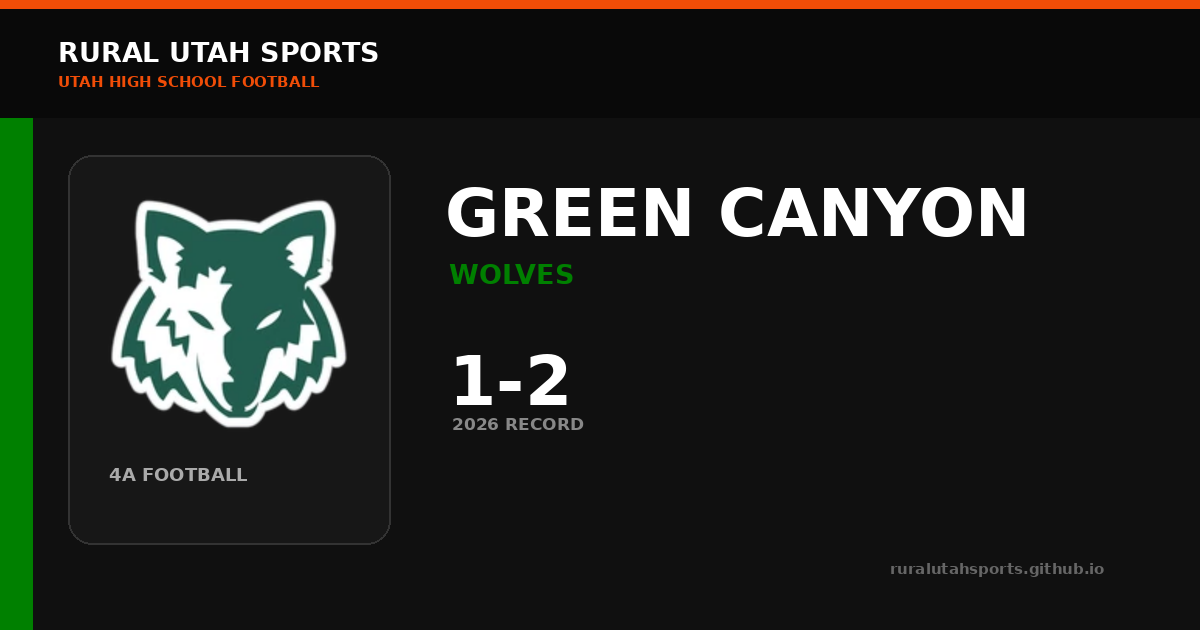
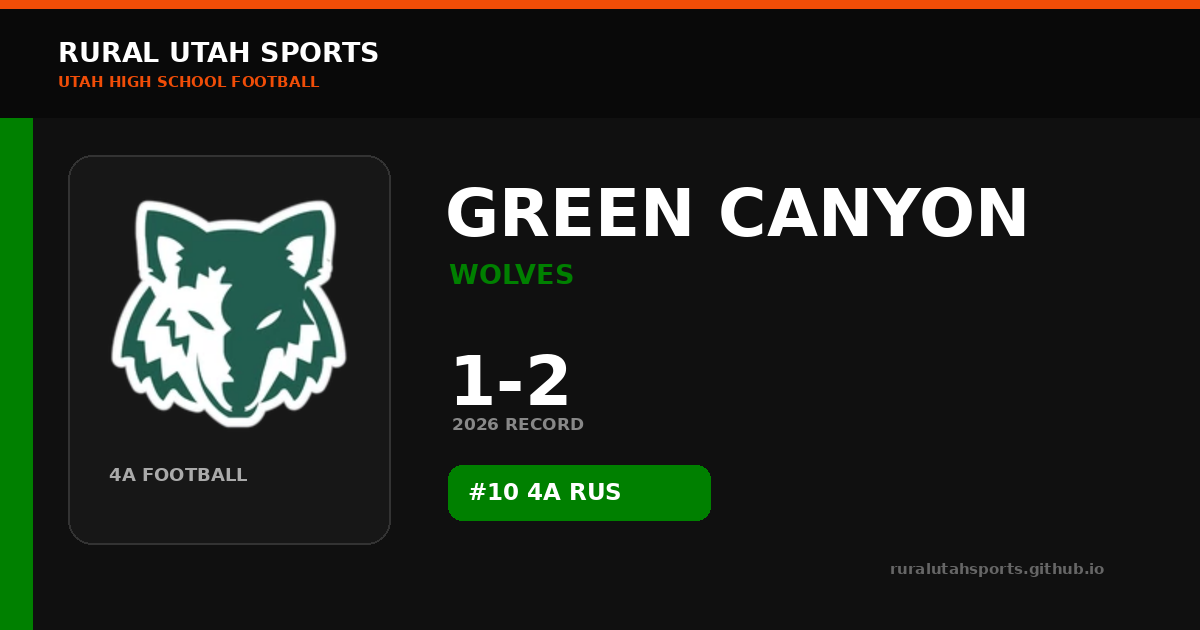
Auto-build social share previews

Changed region(s): [[0.37, 0.7238, 0.6167, 0.8444]]

diff --git a/share/team/snow-canyon/index.html b/share/team/snow-canyon/index.html
@@ -1,5 +1,5 @@
 <!doctype html><html lang="en"><head><meta charset="utf-8"><meta name="viewport" content="width=device-width,initial-scale=1">
-<title>Snow Canyon Warriors Football | Rural Utah Sports</title><meta name="description" content="2026 4A football • 1-2 • #10 4A RUS. Team history, games, rankings, ELO and stats."><meta name="robots" content="noindex,follow"><link rel="canonical" href="https://ruralutahsports.github.io/rural-utah-sports/team.html?team=SNOW%20CANYON">
-<meta property="og:type" content="website"><meta property="og:site_name" content="Rural Utah Sports"><meta property="og:title" content="Snow Canyon Warriors Football | Rural Utah Sports"><meta property="og:description" content="2026 4A football • 1-2 • #10 4A RUS. Team history, games, rankings, ELO and stats."><meta property="og:url" content="https://ruralutahsports.github.io/rural-utah-sports/share/team/snow-canyon/"><meta property="og:image" content="https://ruralutahsports.github.io/rural-utah-sports/share-images/teams/snow-canyon.png"><meta property="og:image:width" content="1200"><meta property="og:image:height" content="630">
-<meta name="twitter:card" content="summary_large_image"><meta name="twitter:title" content="Snow Canyon Warriors Football | Rural Utah Sports"><meta name="twitter:description" content="2026 4A football • 1-2 • #10 4A RUS. Team history, games, rankings, ELO and stats."><meta name="twitter:image" content="https://ruralutahsports.github.io/rural-utah-sports/share-images/teams/snow-canyon.png"><meta http-equiv="refresh" content="0;url=https://ruralutahsports.github.io/rural-utah-sports/team.html?team=SNOW%20CANYON">
+<title>Snow Canyon Warriors Football | Rural Utah Sports</title><meta name="description" content="2026 4A football • 1-2 • #9 4A RUS. Team history, games, rankings, ELO and stats."><meta name="robots" content="noindex,follow"><link rel="canonical" href="https://ruralutahsports.github.io/rural-utah-sports/team.html?team=SNOW%20CANYON">
+<meta property="og:type" content="website"><meta property="og:site_name" content="Rural Utah Sports"><meta property="og:title" content="Snow Canyon Warriors Football | Rural Utah Sports"><meta property="og:description" content="2026 4A football • 1-2 • #9 4A RUS. Team history, games, rankings, ELO and stats."><meta property="og:url" content="https://ruralutahsports.github.io/rural-utah-sports/share/team/snow-canyon/"><meta property="og:image" content="https://ruralutahsports.github.io/rural-utah-sports/share-images/teams/snow-canyon.png"><meta property="og:image:width" content="1200"><meta property="og:image:height" content="630">
+<meta name="twitter:card" content="summary_large_image"><meta name="twitter:title" content="Snow Canyon Warriors Football | Rural Utah Sports"><meta name="twitter:description" content="2026 4A football • 1-2 • #9 4A RUS. Team history, games, rankings, ELO and stats."><meta name="twitter:image" content="https://ruralutahsports.github.io/rural-utah-sports/share-images/teams/snow-canyon.png"><meta http-equiv="refresh" content="0;url=https://ruralutahsports.github.io/rural-utah-sports/team.html?team=SNOW%20CANYON">
 <style>body{margin:0;background:#111;color:#fff;font:16px Arial,sans-serif;display:grid;place-items:center;min-height:100vh}a{color:#F14D07;font-weight:800}</style></head><body><p>Opening <a href="https://ruralutahsports.github.io/rural-utah-sports/team.html?team=SNOW%20CANYON">Snow Canyon Warriors Football | Rural Utah Sports</a>…</p><script>location.replace("https://ruralutahsports.github.io/rural-utah-sports/team.html?team=SNOW%20CANYON");</script></body></html>

diff --git a/share/team/green-canyon/index.html b/share/team/green-canyon/index.html
@@ -1,5 +1,5 @@
 <!doctype html><html lang="en"><head><meta charset="utf-8"><meta name="viewport" content="width=device-width,initial-scale=1">
-<title>Green Canyon Wolves Football | Rural Utah Sports</title><meta name="description" content="2026 4A football • 1-2. Team history, games, rankings, ELO and stats."><meta name="robots" content="noindex,follow"><link rel="canonical" href="https://ruralutahsports.github.io/rural-utah-sports/team.html?team=GREEN%20CANYON">
-<meta property="og:type" content="website"><meta property="og:site_name" content="Rural Utah Sports"><meta property="og:title" content="Green Canyon Wolves Football | Rural Utah Sports"><meta property="og:description" content="2026 4A football • 1-2. Team history, games, rankings, ELO and stats."><meta property="og:url" content="https://ruralutahsports.github.io/rural-utah-sports/share/team/green-canyon/"><meta property="og:image" content="https://ruralutahsports.github.io/rural-utah-sports/share-images/teams/green-canyon.png"><meta property="og:image:width" content="1200"><meta property="og:image:height" content="630">
-<meta name="twitter:card" content="summary_large_image"><meta name="twitter:title" content="Green Canyon Wolves Football | Rural Utah Sports"><meta name="twitter:description" content="2026 4A football • 1-2. Team history, games, rankings, ELO and stats."><meta name="twitter:image" content="https://ruralutahsports.github.io/rural-utah-sports/share-images/teams/green-canyon.png"><meta http-equiv="refresh" content="0;url=https://ruralutahsports.github.io/rural-utah-sports/team.html?team=GREEN%20CANYON">
+<title>Green Canyon Wolves Football | Rural Utah Sports</title><meta name="description" content="2026 4A football • 1-2 • #10 4A RUS. Team history, games, rankings, ELO and stats."><meta name="robots" content="noindex,follow"><link rel="canonical" href="https://ruralutahsports.github.io/rural-utah-sports/team.html?team=GREEN%20CANYON">
+<meta property="og:type" content="website"><meta property="og:site_name" content="Rural Utah Sports"><meta property="og:title" content="Green Canyon Wolves Football | Rural Utah Sports"><meta property="og:description" content="2026 4A football • 1-2 • #10 4A RUS. Team history, games, rankings, ELO and stats."><meta property="og:url" content="https://ruralutahsports.github.io/rural-utah-sports/share/team/green-canyon/"><meta property="og:image" content="https://ruralutahsports.github.io/rural-utah-sports/share-images/teams/green-canyon.png"><meta property="og:image:width" content="1200"><meta property="og:image:height" content="630">
+<meta name="twitter:card" content="summary_large_image"><meta name="twitter:title" content="Green Canyon Wolves Football | Rural Utah Sports"><meta name="twitter:description" content="2026 4A football • 1-2 • #10 4A RUS. Team history, games, rankings, ELO and stats."><meta name="twitter:image" content="https://ruralutahsports.github.io/rural-utah-sports/share-images/teams/green-canyon.png"><meta http-equiv="refresh" content="0;url=https://ruralutahsports.github.io/rural-utah-sports/team.html?team=GREEN%20CANYON">
 <style>body{margin:0;background:#111;color:#fff;font:16px Arial,sans-serif;display:grid;place-items:center;min-height:100vh}a{color:#F14D07;font-weight:800}</style></head><body><p>Opening <a href="https://ruralutahsports.github.io/rural-utah-sports/team.html?team=GREEN%20CANYON">Green Canyon Wolves Football | Rural Utah Sports</a>…</p><script>location.replace("https://ruralutahsports.github.io/rural-utah-sports/team.html?team=GREEN%20CANYON");</script></body></html>

diff --git a/share/team/spanish-fork/index.html b/share/team/spanish-fork/index.html
@@ -1,5 +1,5 @@
 <!doctype html><html lang="en"><head><meta charset="utf-8"><meta name="viewport" content="width=device-width,initial-scale=1">
-<title>Spanish Fork Dons Football | Rural Utah Sports</title><meta name="description" content="2026 5A football • 2-1 • #9 4A RUS. Team history, games, rankings, ELO and stats."><meta name="robots" content="noindex,follow"><link rel="canonical" href="https://ruralutahsports.github.io/rural-utah-sports/team.html?team=SPANISH%20FORK">
-<meta property="og:type" content="website"><meta property="og:site_name" content="Rural Utah Sports"><meta property="og:title" content="Spanish Fork Dons Football | Rural Utah Sports"><meta property="og:description" content="2026 5A football • 2-1 • #9 4A RUS. Team history, games, rankings, ELO and stats."><meta property="og:url" content="https://ruralutahsports.github.io/rural-utah-sports/share/team/spanish-fork/"><meta property="og:image" content="https://ruralutahsports.github.io/rural-utah-sports/share-images/teams/spanish-fork.png"><meta property="og:image:width" content="1200"><meta property="og:image:height" content="630">
-<meta name="twitter:card" content="summary_large_image"><meta name="twitter:title" content="Spanish Fork Dons Football | Rural Utah Sports"><meta name="twitter:description" content="2026 5A football • 2-1 • #9 4A RUS. Team history, games, rankings, ELO and stats."><meta name="twitter:image" content="https://ruralutahsports.github.io/rural-utah-sports/share-images/teams/spanish-fork.png"><meta http-equiv="refresh" content="0;url=https://ruralutahsports.github.io/rural-utah-sports/team.html?team=SPANISH%20FORK">
+<title>Spanish Fork Dons Football | Rural Utah Sports</title><meta name="description" content="2026 5A football • 2-1. Team history, games, rankings, ELO and stats."><meta name="robots" content="noindex,follow"><link rel="canonical" href="https://ruralutahsports.github.io/rural-utah-sports/team.html?team=SPANISH%20FORK">
+<meta property="og:type" content="website"><meta property="og:site_name" content="Rural Utah Sports"><meta property="og:title" content="Spanish Fork Dons Football | Rural Utah Sports"><meta property="og:description" content="2026 5A football • 2-1. Team history, games, rankings, ELO and stats."><meta property="og:url" content="https://ruralutahsports.github.io/rural-utah-sports/share/team/spanish-fork/"><meta property="og:image" content="https://ruralutahsports.github.io/rural-utah-sports/share-images/teams/spanish-fork.png"><meta property="og:image:width" content="1200"><meta property="og:image:height" content="630">
+<meta name="twitter:card" content="summary_large_image"><meta name="twitter:title" content="Spanish Fork Dons Football | Rural Utah Sports"><meta name="twitter:description" content="2026 5A football • 2-1. Team history, games, rankings, ELO and stats."><meta name="twitter:image" content="https://ruralutahsports.github.io/rural-utah-sports/share-images/teams/spanish-fork.png"><meta http-equiv="refresh" content="0;url=https://ruralutahsports.github.io/rural-utah-sports/team.html?team=SPANISH%20FORK">
 <style>body{margin:0;background:#111;color:#fff;font:16px Arial,sans-serif;display:grid;place-items:center;min-height:100vh}a{color:#F14D07;font-weight:800}</style></head><body><p>Opening <a href="https://ruralutahsports.github.io/rural-utah-sports/team.html?team=SPANISH%20FORK">Spanish Fork Dons Football | Rural Utah Sports</a>…</p><script>location.replace("https://ruralutahsports.github.io/rural-utah-sports/team.html?team=SPANISH%20FORK");</script></body></html>
